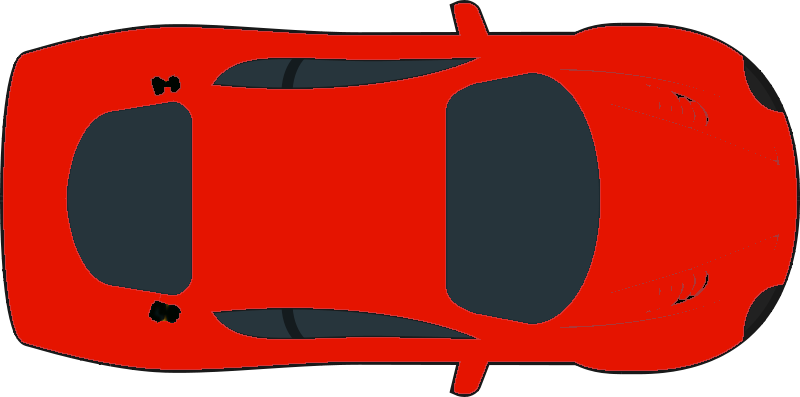
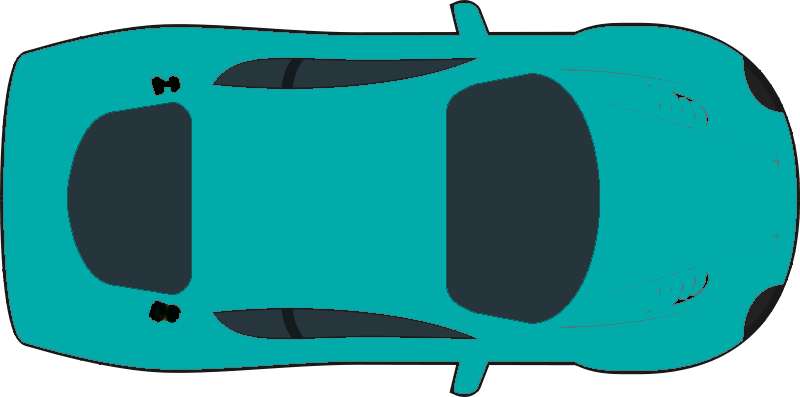
swapping out red car

diff --git a/View/__init__.py b/View/__init__.py
@@ -19,7 +19,7 @@ class PyGameWindowView:
         	self.car_image = pygame.transform.scale(self.car_image, (30, 17))
         	self.car_images.append(self.car_image)
         	i += 1
-       	self.car_colors = [pygame.Color(240,163,10),pygame.Color(27,161,226),pygame.Color(0,80,239),pygame.Color(162,0,37),pygame.Color(130,90,44),pygame.Color(216,0,115),pygame.Color(164,196,0),pygame.Color(106,0,255),pygame.Color(96,169,23),pygame.Color(0,138,0),pygame.Color(118,96,138),pygame.Color(109,135,100),pygame.Color(250,104,0),pygame.Color(244,114,208),pygame.Color(229,20,0),pygame.Color(122,59,63),pygame.Color(0,171,169),pygame.Color(170,0,255),pygame.Color(216,193,0),pygame.Color(255,255,255)]
+       	self.car_colors = [pygame.Color(240,163,10),pygame.Color(27,161,226),pygame.Color(0,80,239),pygame.Color(162,0,37),pygame.Color(130,90,44),pygame.Color(216,0,115),pygame.Color(164,196,0),pygame.Color(106,0,255),pygame.Color(96,169,23),pygame.Color(0,138,0),pygame.Color(118,96,138),pygame.Color(109,135,100),pygame.Color(250,104,0),pygame.Color(244,114,208),pygame.Color(0,171,169),pygame.Color(122,59,63),pygame.Color(229,20,0),pygame.Color(170,0,255),pygame.Color(216,193,0),pygame.Color(255,255,255)]
         self.dead_car_image = pygame.transform.scale(pygame.image.load('dead_car.png'), (25,10))
 
                    
